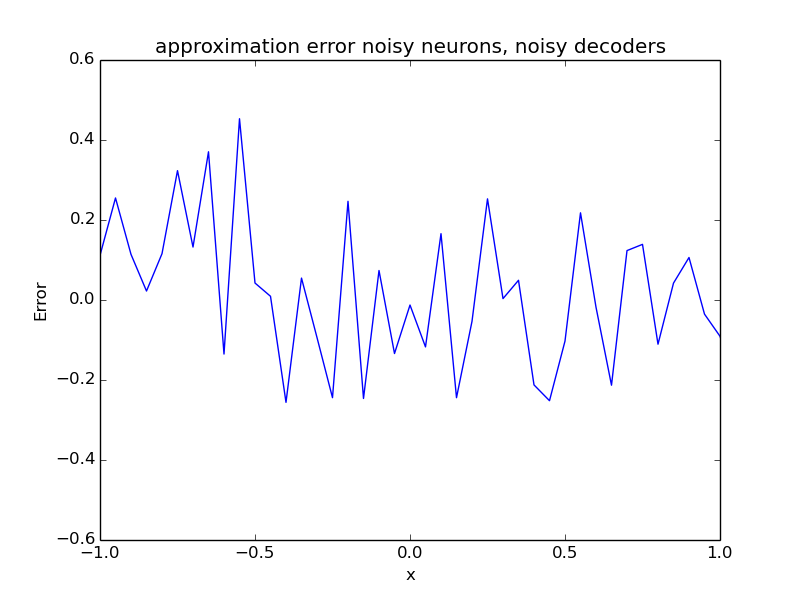
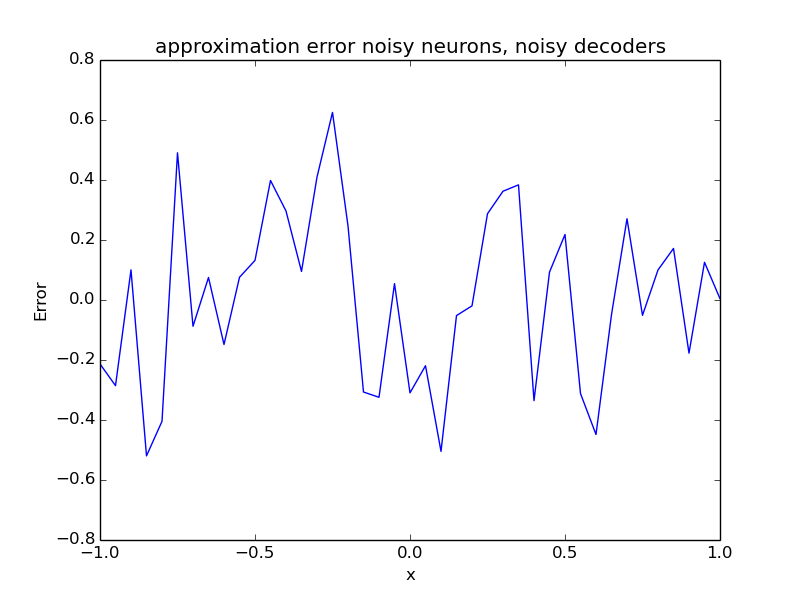
got functions working

diff --git a/SYDE750_ass3/q4.py b/SYDE750_ass3/q4.py
@@ -1,3 +1,43 @@
+import numpy as np
+import ipdb
+import matplotlib.pyplot as plt
+
+import sys
+from IPython.core import ultratb
+sys.excepthook = ultratb.FormattedTB(mode='Verbose',
+     color_scheme='Linux', call_pdb=1)
+
 # just pass in f_x into the decoders of the first population
 # do I mean the activity matrix?
 # do I just get the activities from the previous deocder matrix?
+
+n_neurons = 200
+
+# regenerate the decoders in the old-fashioned way for both populations
+dt = 0.001
+t_range = np.arange(0, 1, dt)
+
+
+input_func = lambda t: t - 1
+
+fig = plt.figure()
+plt.plot(t_range, input_func(t_range))
+plt.savefig("4_a")
+
+def input_func(t_range):
+	y_vals = np.random.uniform(-1, 0, 10)
+	return_vals = []
+	increment = t_range.size/10
+	for t in range(t_range.size):
+		return_vals.append(y_vals[t/increment])
+	return np.array(return_vals)
+
+fig = plt.figure()
+plt.plot(t_range, input_func(t_range))
+plt.savefig("4_b")
+
+input_func = lambda t: 0.2*np.sin(6*np.pi*t)
+
+fig = plt.figure()
+plt.plot(t_range, input_func(t_range))
+plt.savefig("4_c")

diff --git a/SYDE750_ass3/q1.py b/SYDE750_ass3/q1.py
@@ -19,7 +19,7 @@ x_vals = np.arange(-2.55, 2.55, 0.05)
 S = x_vals.size
 
 # Okay, I have no idea how to a radius of 2.0, but I'm going to assume it's not a big deal
-A, neurons = get_activities(lif_neuron, x_vals, n_neurons, x_cepts, max_firing_rates, gain_signs, radius=1.0)
+A, neurons = get_activities(lif_neuron, x_vals, n_neurons, x_cepts, max_firing_rates, gain_signs, radius=2.0)
 
 # plot the lif neurons
 fig = plt.figure()
@@ -35,4 +35,4 @@ fig.savefig("1_1a")
 A_noisy = A.T + np.random.normal(scale=0.2*200, size=A.T.shape)
 decoders_noisy, x_hat_noisy = get_decoders(A_noisy.T, S, x_vals)
 
-plot_xhat(x_vals, x_hat_noisy, "noisy neurons, noisy decoders", "1_1b")
+plot_xhat(x_vals, x_hat_noisy, "noiseless neurons, noiseless decoders", "1_1b")

diff --git a/SYDE750_ass3/utils.py b/SYDE750_ass3/utils.py
@@ -16,9 +16,9 @@ def lif_neuron(x_inter, max_fire, t_ref=0.002, t_rc=0.02, radius=1.0):
 		)
 	)
 	# okay, how the hell do you take the radius into account?
-	alpha = 1.0/radius * (1.0 - beta)/(x_inter + 1.0)
+	#alpha = 1/radius * (1.0 - beta)/(x_inter + 1.0)
+	alpha = (1.0 - beta)/(x_inter + radius*1.0)
 	#J_bias = 1.0 - alpha * x_inter * radius
-	#alpha = (1.0 - beta)/(x_inter + 1.0)
 	J_bias = 1.0 - alpha * x_inter
 	def lif(x):
 		J = x * alpha + J_bias

diff --git a/SYDE750_ass3/q2.py b/SYDE750_ass3/q2.py
@@ -8,7 +8,7 @@ dt = 0.001
 t_range = np.arange(998)*dt-0.5
 h = ptsc(t_range, 0.005)
 fig = plt.figure()
-plt.plot(z_center(h))
+plt.plot(z_center(h), h)
 plt.title("post-synaptic current filter")
 plt.savefig("2_a")
 
